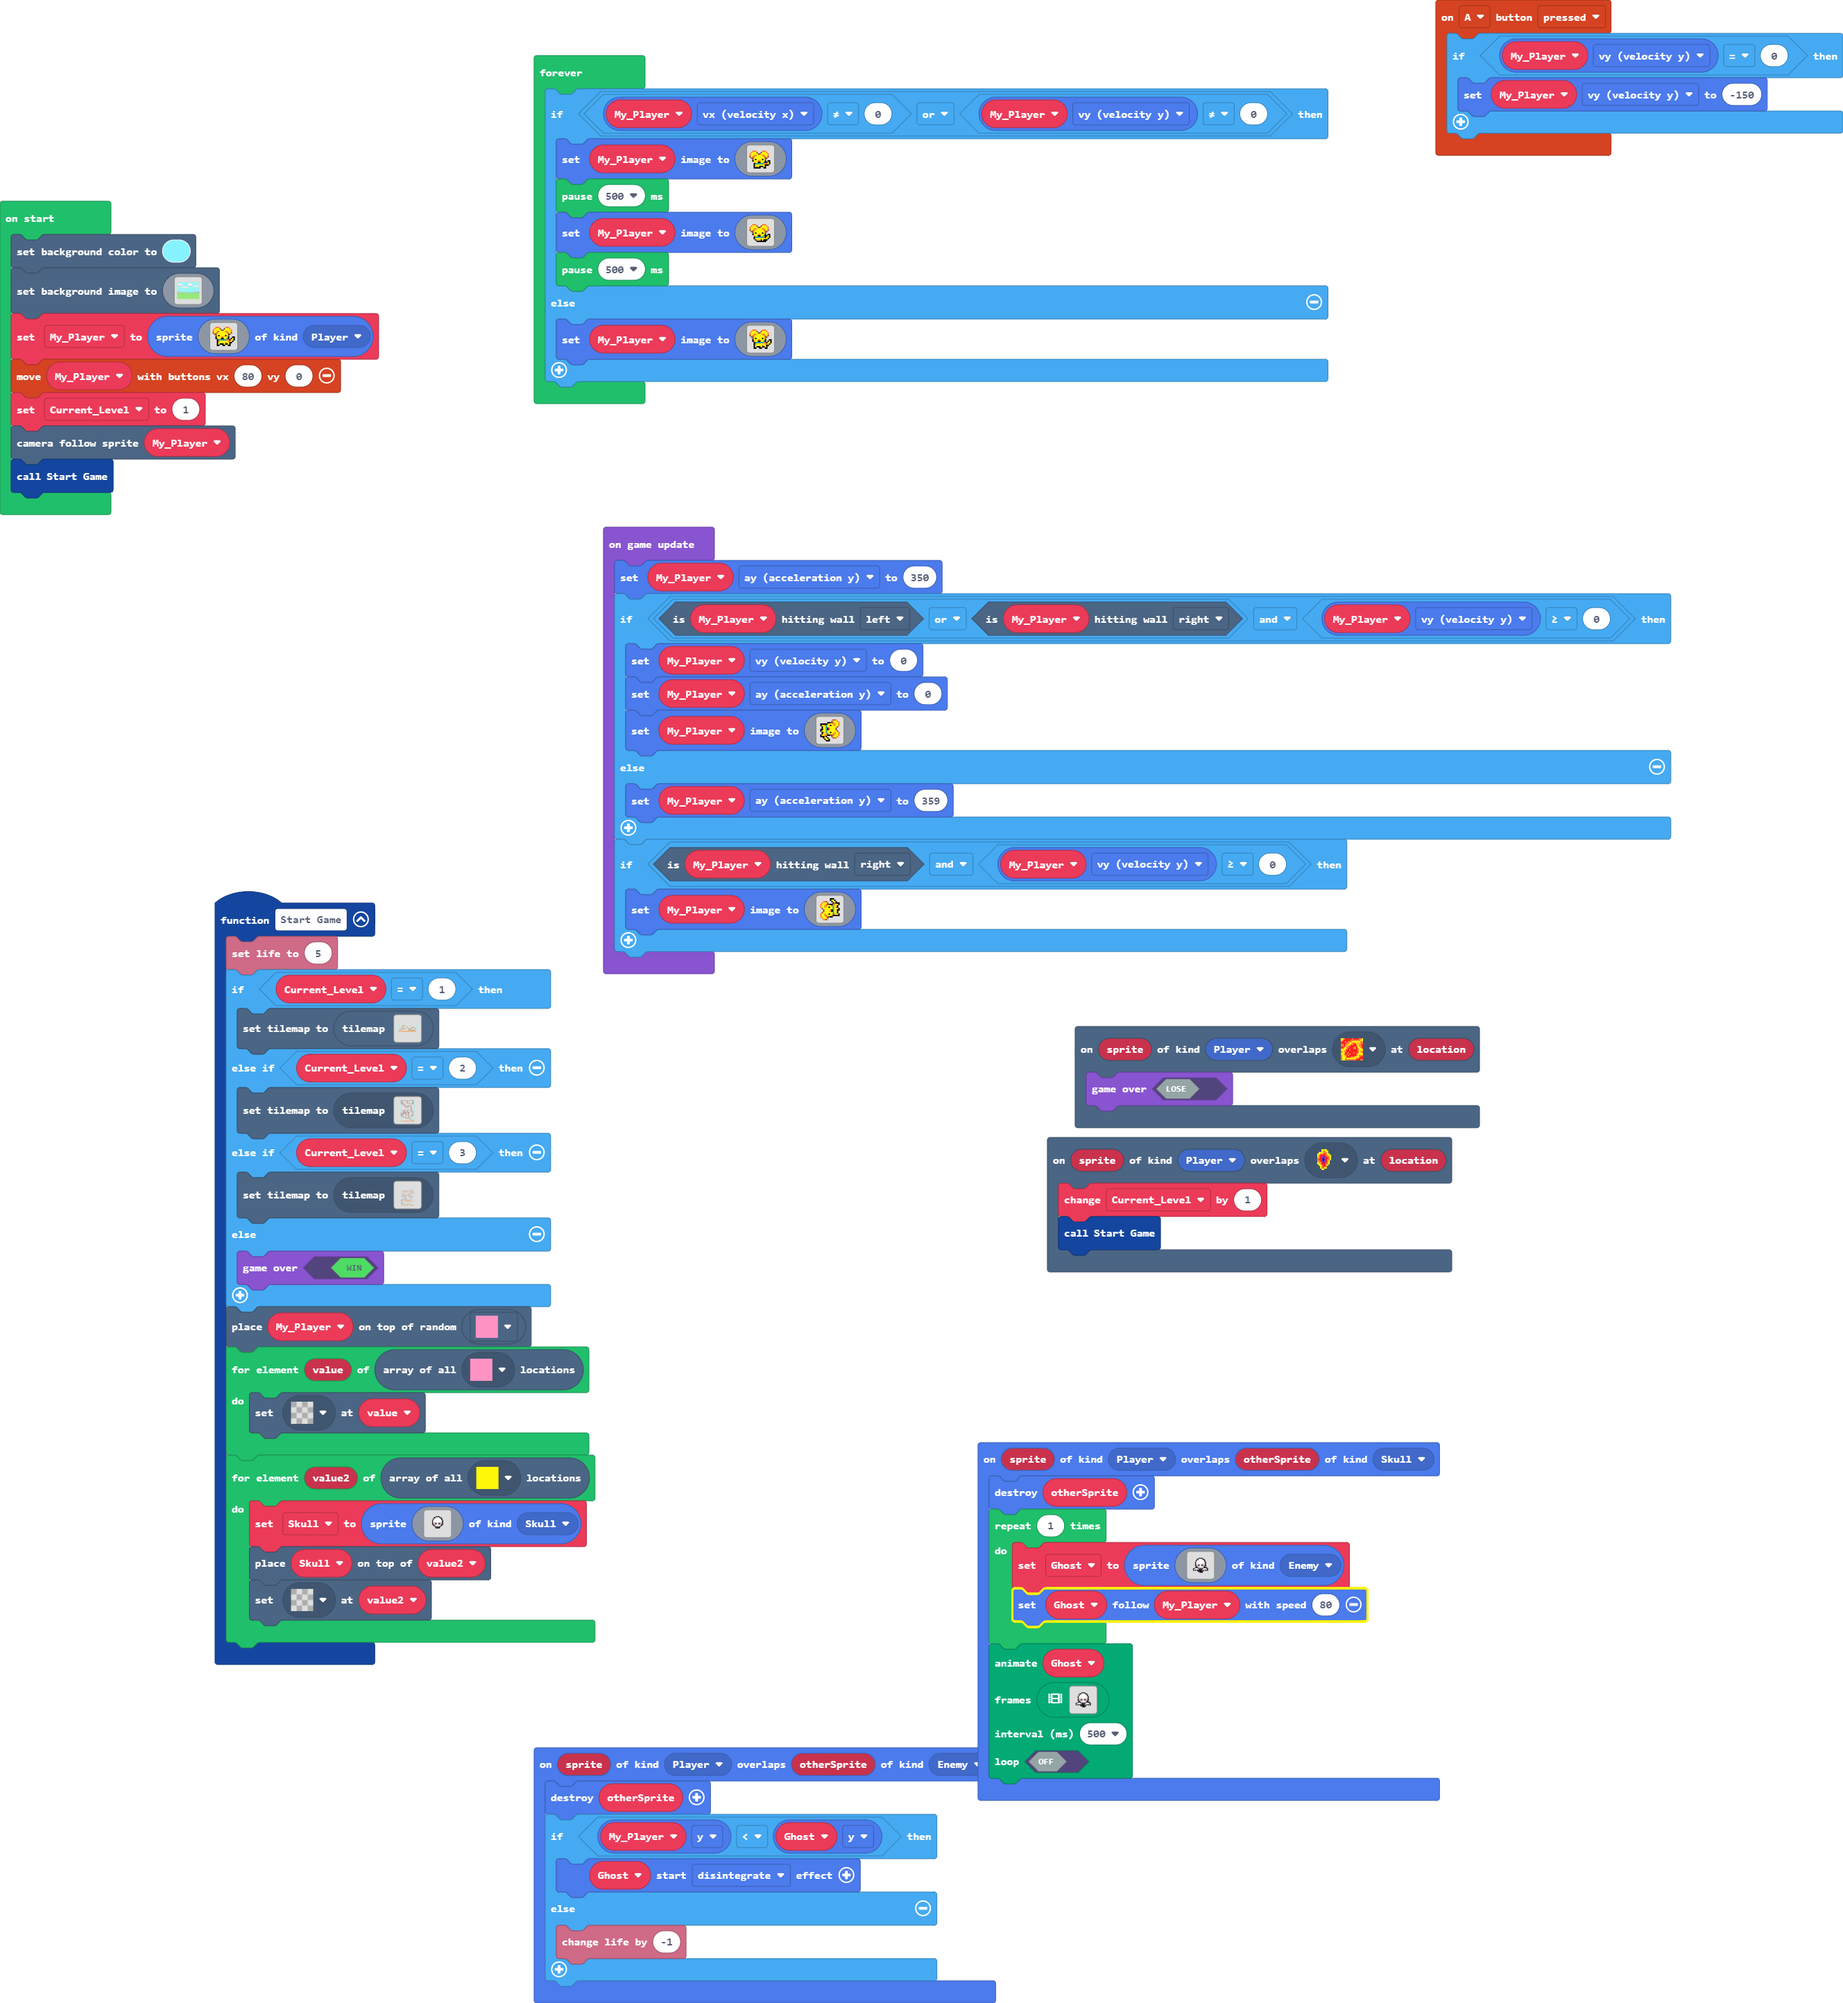
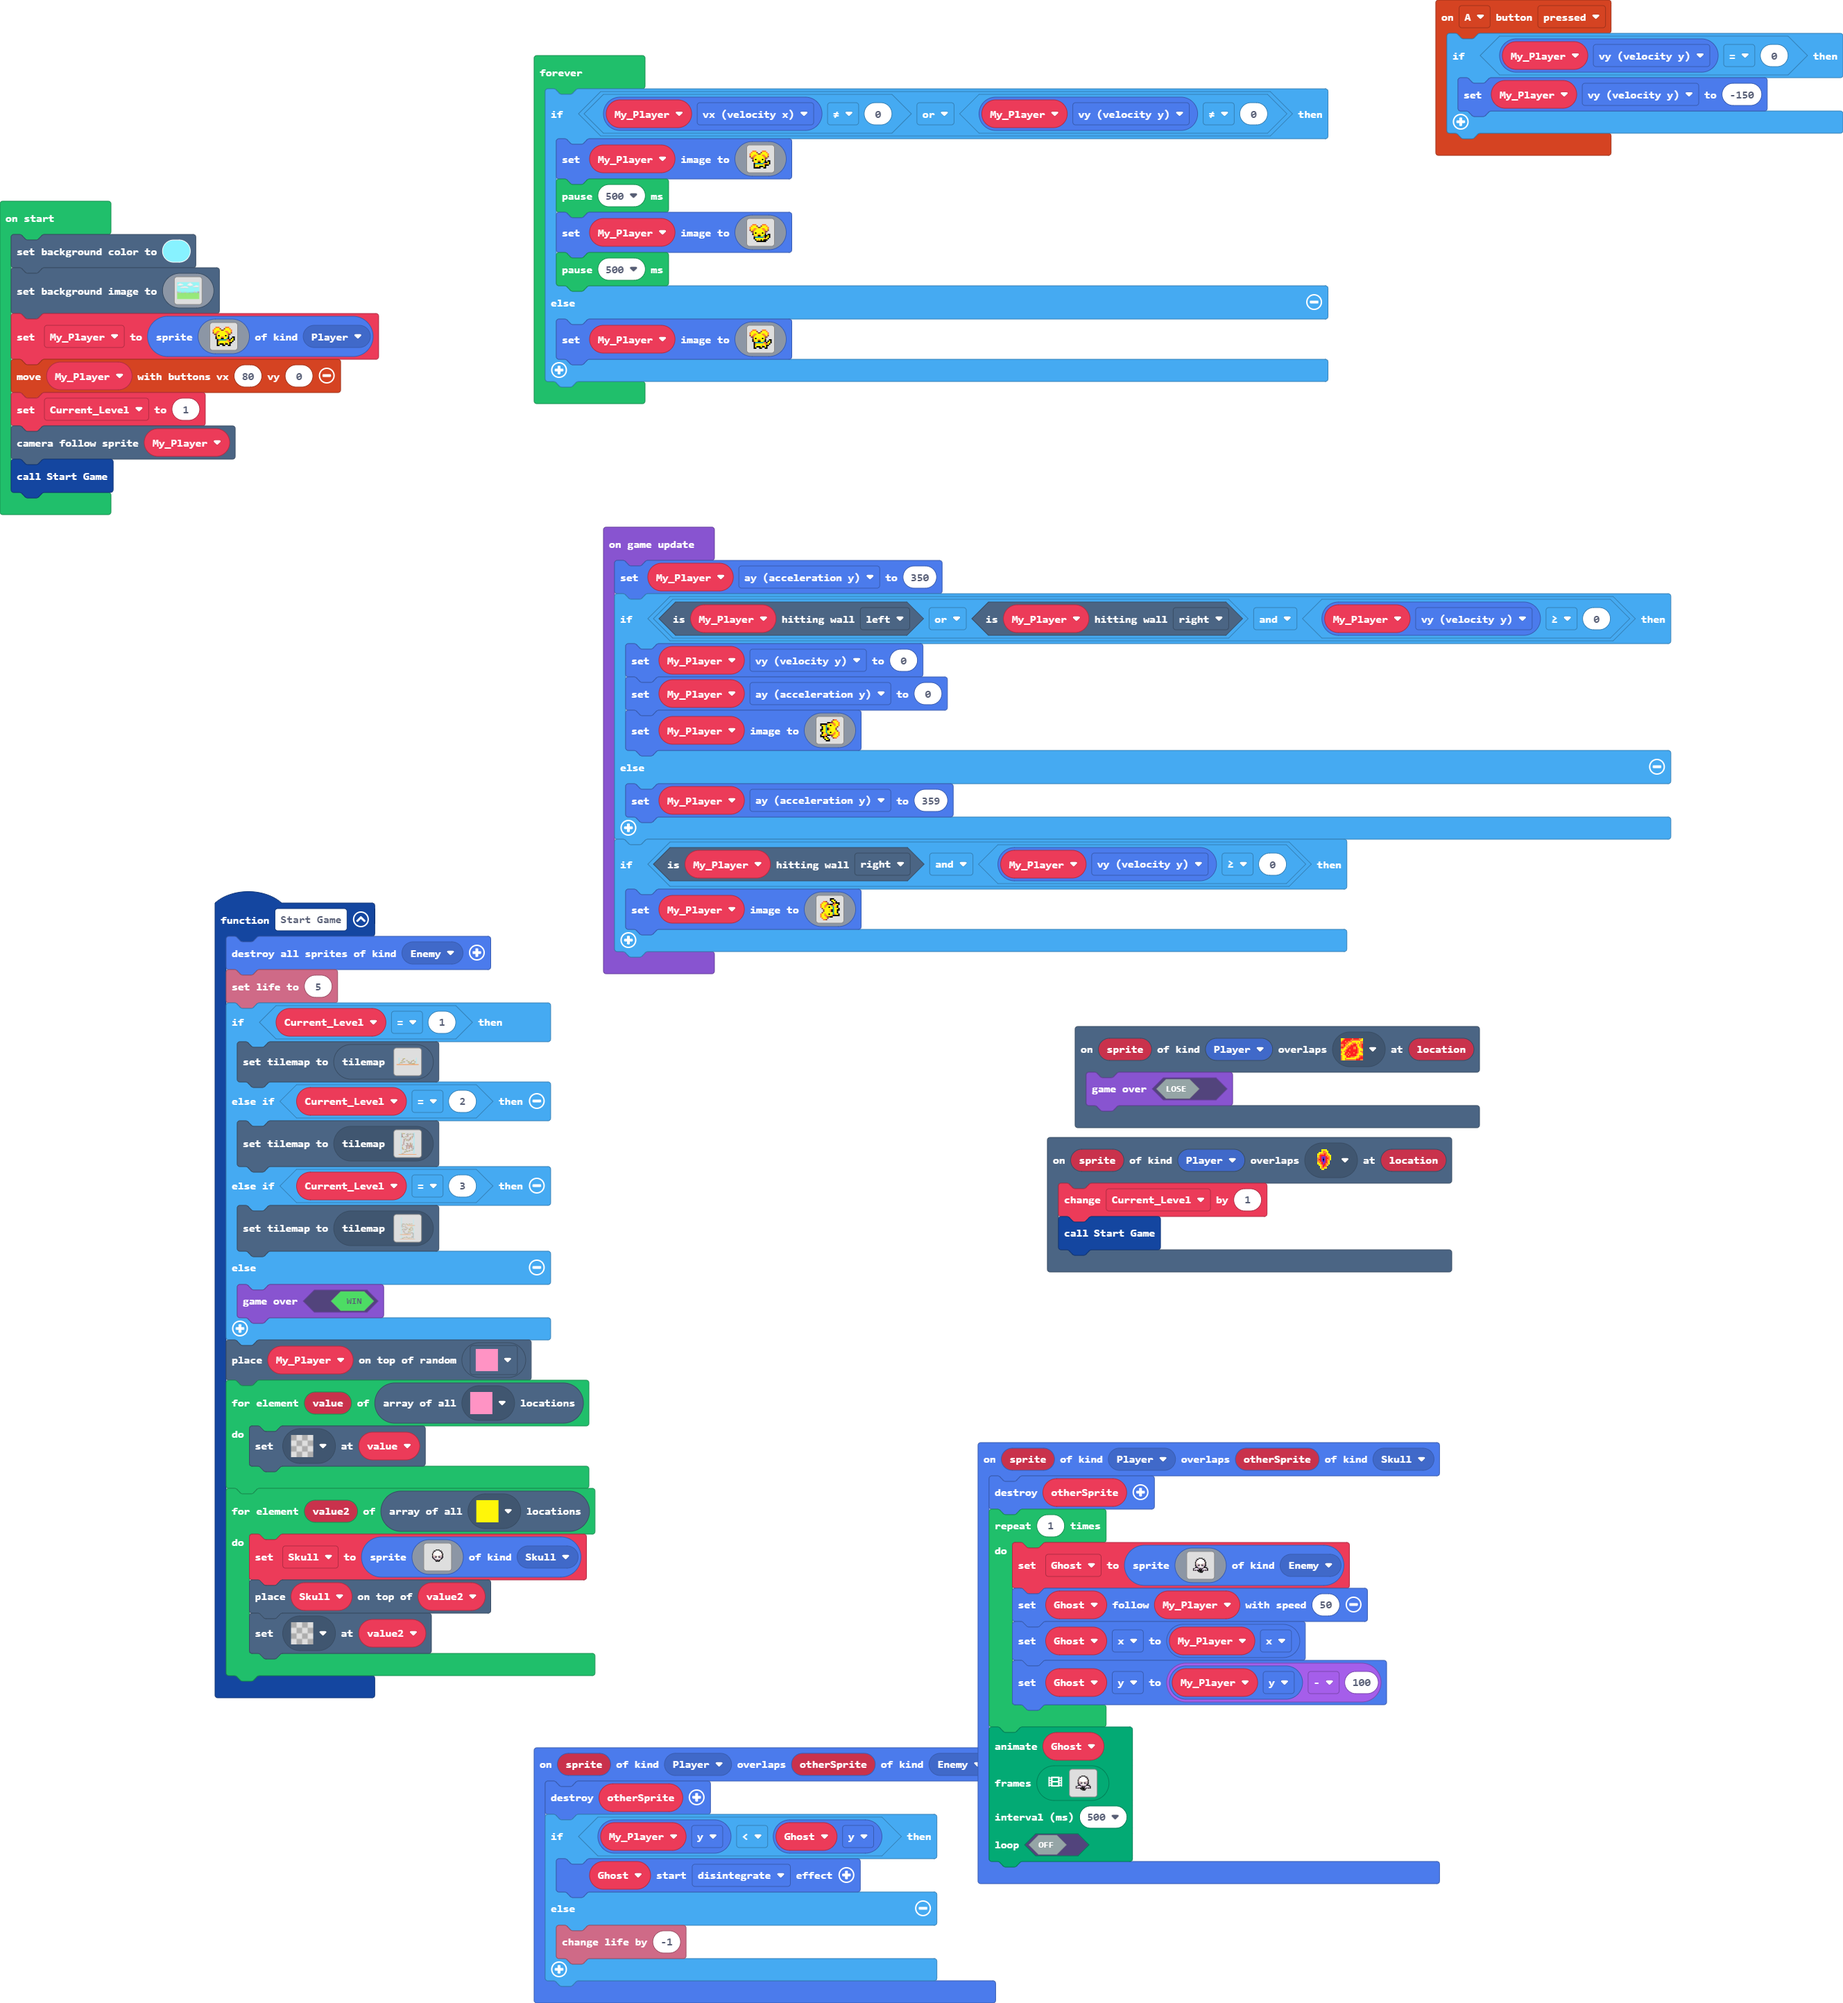
Update main.blocks, main.ts, tilemap.g.jres, tilemap.g.ts

Changed region(s): [[0.0937, 0.4675, 0.3436, 0.8726], [0.5311, 0.8102, 0.781, 0.9661]]

diff --git a/tilemap.g.ts b/tilemap.g.ts
@@ -94,25 +94,6 @@ namespace myTiles {
 . . . . . . . . . . . . . . . . 
 . . . . . . . . . . . . . . . . 
 `, [myTiles.transparency16], TileScale.Sixteen);
-            case "level1":
[1 lines of base64/hex data omitted]
-..................................................
-..................................................
-...............2222...............................
-..............2...................................
-..............2...................................
-..............2.......................2...........
-......................222............22...........
-...........222....................22..............
-.................................2................
-...............2222......2222....2......222.......
-................................2.................
-........222222..................2.................
-...........................222222.................
-......2...........................2222222.........
-..................................................
-..................................................
-`, [myTiles.transparency16,sprites.dungeon.hazardLava0,myTiles.tile1,myTiles.tile2,myTiles.tile3,myTiles.tile4,myTiles.tile5,myTiles.tile8,myTiles.tile13,myTiles.tile15,myTiles.tile6], TileScale.Sixteen);
             case "level7":
             case "level7":return tiles.createTilemap(hex`1000100000000000000000000000000000000000000000000000000000000000000000000000000000000000000000000000000000000000000000000000000000000000000000000000000000000000000000000000000000000000000000000000000000000000000000000000000000000000000000000000000000000000000000000000000000000000000000000000000000000000000000000000000000000000000000000000000000000000000000000000000000000000000000000000000000000000000000000000000000000000000000000000000000000000000000000000000000000000000000000000000000000000000000000000000000000000`, img`
 . . . . . . . . . . . . . . . . 
@@ -227,8 +208,80 @@ namespace myTiles {
 . . . . . . . . . . . . . . . . 
 . . . . . . . . . . . . . . . . 
 `, [myTiles.transparency16], TileScale.Sixteen);
+            case "level1":
[1 lines of base64/hex data omitted]
+..................................................
+..................................................
+...............2222...............................
+..............2...................................
+..............2...................................
+..............2.......................2...........
+......................222............22...........
+...........222....................22..............
+.................................2................
+...............2222......2222....2......222.......
+................................2.................
+........222222..................2.................
+...........................222222.................
+......2...........................2222222.........
+..................................................
+..................................................
+`, [myTiles.transparency16,sprites.dungeon.hazardLava0,myTiles.tile1,myTiles.tile2,myTiles.tile3,myTiles.tile4,myTiles.tile5,myTiles.tile8,myTiles.tile13,myTiles.tile15,myTiles.tile6], TileScale.Sixteen);
+            case "level4":
[1 lines of base64/hex data omitted]
+........................................
+........................................
+.......2..2222...................2......
+.......2.................222..22.2......
+.......2..............22.........2......
+.......2............2............2......
+.......2............2............2......
+.......2............2.........2..2......
+.......2............2.........2..2......
+.......2.......222..2.........2..2......
+.......2..222.............2...2.........
+..........................2...2.........
+..........................2...2.........
+...............2..........2.............
+............2..22......2..2.............
+............2..........2..2.............
+............2..........2................
+............2....222...2................
+............2........22.................
+............2...........................
+...........2............................
+...........2............................
+...........2............................
+...........2..............2.............
+...........2........2.....2.............
+...........2........2.....2.............
+...........2........2.....2.............
+........2..2........2.....2..2..........
+........2...........2..2..2..2..........
+........2.........2.2..2..2..2..........
+..................2....2..2..2...2......
+..................2....2..2..2...2......
+........2.........2....2..2..2...2......
+........2.........2....2.....2...2......
+........2.........2....2.....2...2......
+........2.........2....2.........2......
+........2.........2....2.........2......
+.........222.....................2......
+..............2222......................
+............................2222........
+........................22..............
+......................222...............
+..................222...................
+.............222........................
+.............2..........................
+........................................
+..........22............................
+.......22...............................
+........................................
+........................................
+`, [myTiles.transparency16,myTiles.tile2,myTiles.tile1,myTiles.tile3,myTiles.tile4,myTiles.tile5,myTiles.tile7,sprites.dungeon.hazardLava0,myTiles.tile8,myTiles.tile9,myTiles.tile10,myTiles.tile11,myTiles.tile12,myTiles.tile13,myTiles.tile15,myTiles.tile6], TileScale.Sixteen);
             case "level5":
[2 lines of base64/hex data omitted]
 ............................................................
 ............................................................
 ............................................................
@@ -320,59 +373,6 @@ namespace myTiles {
 ............................................................
 ............................................................
 `, [myTiles.transparency16,myTiles.tile2,myTiles.tile3,myTiles.tile5,sprites.dungeon.hazardLava0,myTiles.tile4,myTiles.tile7,myTiles.tile1,myTiles.tile9,myTiles.tile10,myTiles.tile12,myTiles.tile14,myTiles.tile17,myTiles.tile8,myTiles.tile13,myTiles.tile15,myTiles.tile6], TileScale.Sixteen);
-            case "level4":
[1 lines of base64/hex data omitted]
-........................................
-........................................
-.......2..2222...................2......
-.......2.................222..22.2......
-.......2..............22.........2......
-.......2............2............2......
-.......2............2............2......
-.......2............2.........2..2......
-.......2............2.........2..2......
-.......2.......222..2.........2..2......
-.......2..222.............2...2.........
-..........................2...2.........
-..........................2...2.........
-...............2..........2.............
-............2..22......2..2.............
-............2..........2..2.............
-............2..........2................
-............2....222...2................
-............2........22.................
-............2...........................
-...........2............................
-...........2............................
-...........2............................
-...........2..............2.............
-...........2........2.....2.............
-...........2........2.....2.............
-...........2........2.....2.............
-........2..2........2.....2..2..........
-........2...........2..2..2..2..........
-........2.........2.2..2..2..2..........
-..................2....2..2..2...2......
-..................2....2..2..2...2......
-........2.........2....2..2..2...2......
-........2.........2....2.....2...2......
-........2.........2....2.....2...2......
-........2.........2....2.........2......
-........2.........2....2.........2......
-.........222.....................2......
-..............2222......................
-............................2222........
-........................22..............
-......................222...............
-..................222...................
-.............222........................
-.............2..........................
-........................................
-..........22............................
-.......22...............................
-........................................
-........................................
-`, [myTiles.transparency16,myTiles.tile2,myTiles.tile1,myTiles.tile3,myTiles.tile4,myTiles.tile5,myTiles.tile7,sprites.dungeon.hazardLava0,myTiles.tile8,myTiles.tile9,myTiles.tile10,myTiles.tile11,myTiles.tile12,myTiles.tile13,myTiles.tile15,myTiles.tile6], TileScale.Sixteen);
         }
         return null;
     })

diff --git a/main.ts b/main.ts
@@ -14,6 +14,7 @@ scene.onOverlapTile(SpriteKind.Player, sprites.dungeon.hazardLava0, function (sp
     game.gameOver(false)
 })
 function Start_Game () {
+    sprites.destroyAllSpritesOfKind(SpriteKind.Enemy)
     info.setLife(5)
     if (Current_Level == 1) {
         tiles.setCurrentTilemap(tilemap`level1`)
@@ -88,7 +89,9 @@ sprites.onOverlap(SpriteKind.Player, SpriteKind.Skull, function (sprite, otherSp
             ........................
             ........................
             `, SpriteKind.Enemy)
-        Ghost.follow(My_Player, 80)
+        Ghost.follow(My_Player, 50)
+        Ghost.x = My_Player.x
+        Ghost.y = My_Player.y - 100
     }
     animation.runImageAnimation(
     Ghost,
